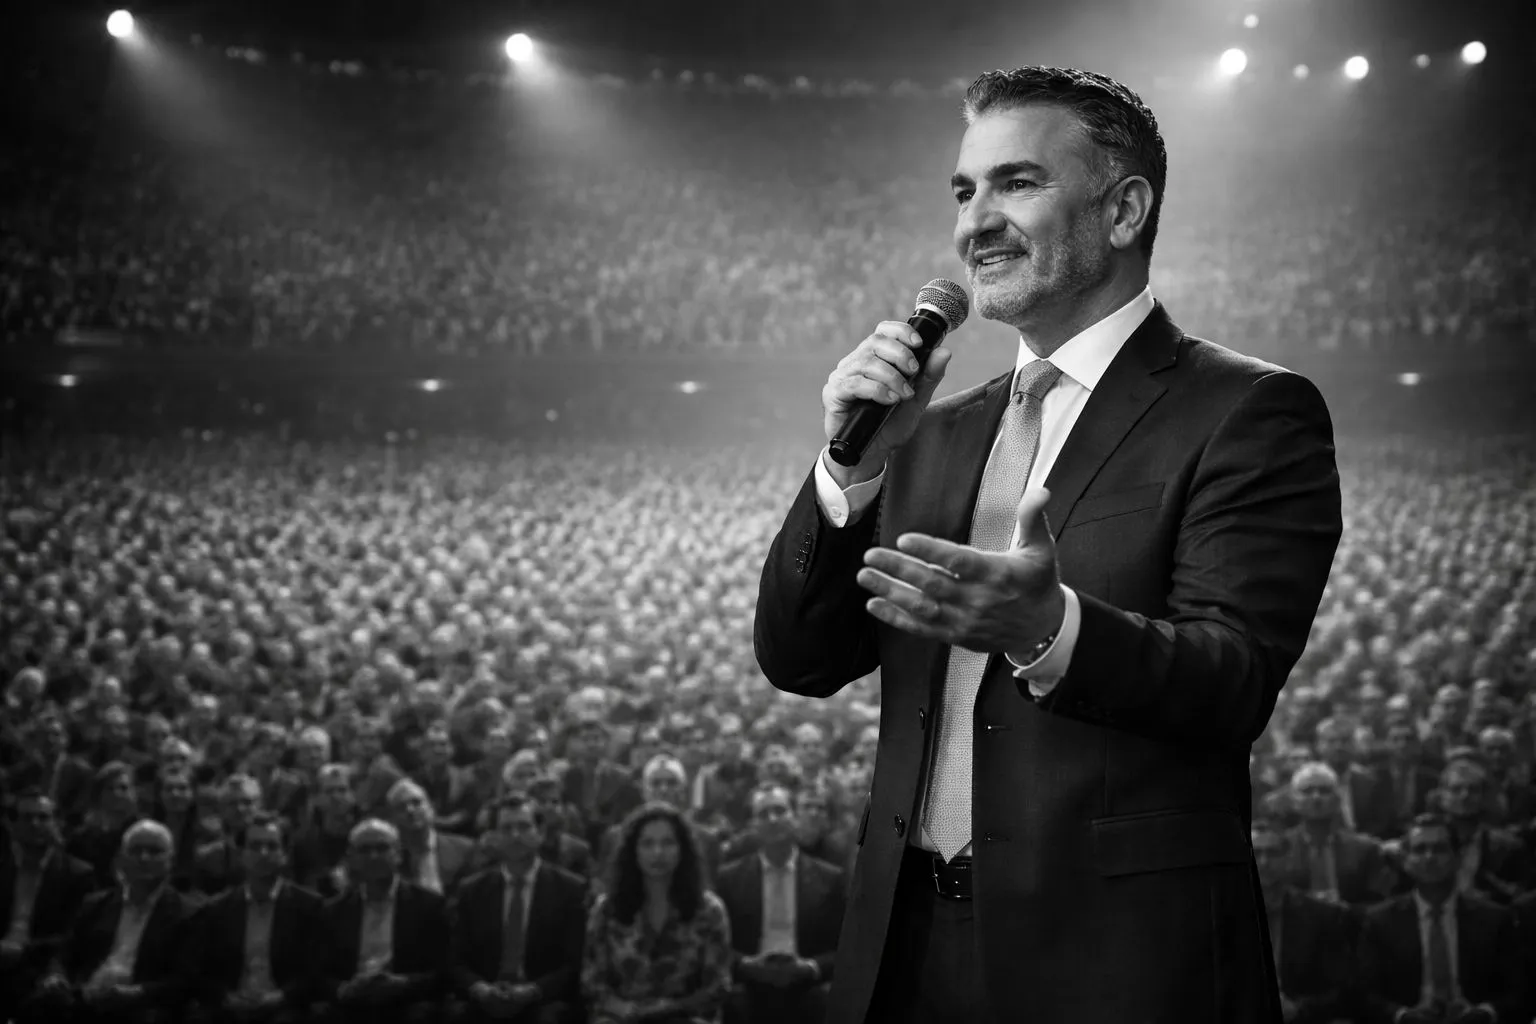
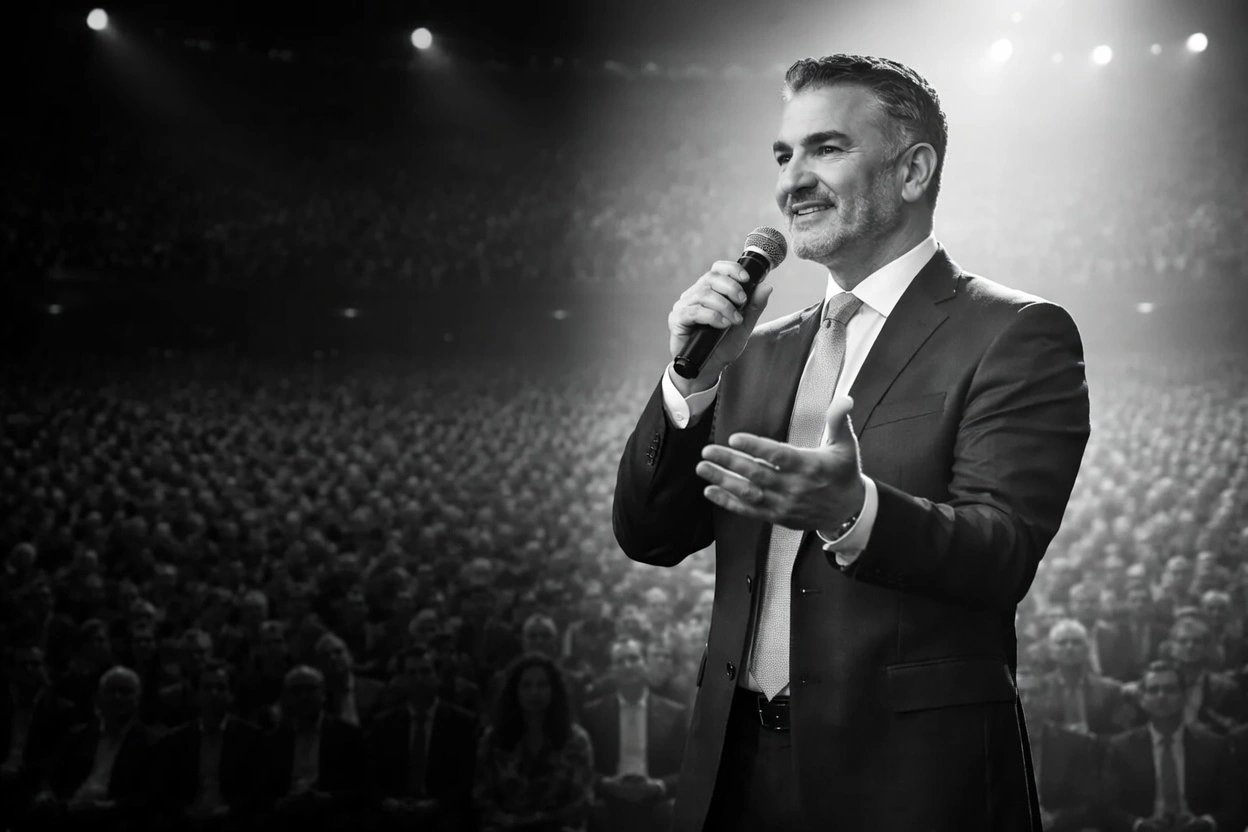
fix: hero section colors and faviicon

diff --git a/resources/views/partials/hero.blade.php b/resources/views/partials/hero.blade.php
@@ -4,12 +4,12 @@
     <img 
         src="{{ asset('images/hero-background.webp') }}" 
         class="absolute inset-0 h-full w-full object-cover grayscale">
-    <div class="absolute inset-0 bg-black/90"></div>
+    <div class="absolute inset-0 bg-black/50"></div>
     </div>
     {{-- Subtle gold radial glow --}}
     <div class="absolute inset-0 bg-[radial-gradient(ellipse_at_50%_50%,_rgba(201,168,76,0.05)_0%,_transparent_70%)]"></div>
 
-    <div class="relative z-10 mx-auto flex w-full max-w-7xl flex-col items-center gap-10 px-6 lg:flex-row lg:gap-16 lg:px-8">
+    <div class="relative z-10 mx-auto flex w-full max-w-7xl flex-col items-center gap-10 px-6 lg:ml-12 lg:flex-row lg:gap-16 lg:px-8">
         {{-- Left content --}}
         <div class="flex flex-1 flex-col items-center text-center lg:items-start lg:text-left">
             <h1 class="font-serif text-6xl font-bold uppercase leading-[0.95] tracking-wide text-primary sm:text-7xl md:text-8xl lg:text-9xl">
@@ -19,7 +19,7 @@
             <div class="my-6 h-px w-64 bg-gradient-to-r from-primary/80 via-primary/40 to-transparent lg:w-80"></div>
 
             <p class="text-sm font-medium uppercase tracking-[0.25em] text-foreground/60 sm:text-base">
-                Motivational Speaker | Author | Mindset Strategist
+                Motivational Speaker | Author | Mindset Expert
             </p>
 
             <h2 class="mt-10 font-serif text-3xl font-bold leading-tight text-foreground sm:text-4xl lg:text-5xl">
@@ -47,20 +47,8 @@
             </div>
         </div>
 
-        {{-- Right - Circle portrait --}}
-        <div class="relative flex flex-1 items-center justify-center lg:justify-end">
-            {{-- Subtle glow --}}
-            <div class="absolute h-56 w-56 rounded-full bg-primary/[0.08] blur-3xl sm:h-72 sm:w-72 md:h-80 md:w-80 lg:h-96 lg:w-96"></div>
-
-            {{-- Gold gradient ring --}}
-            <div class="relative h-48 w-48 rounded-full p-[3px] sm:h-64 sm:w-64 md:h-72 md:w-72 lg:h-96 lg:w-96"
-                style="background: linear-gradient(135deg, rgba(201,168,76,0.6) 0%, rgba(201,168,76,0.15) 40%, rgba(201,168,76,0.05) 60%, rgba(201,168,76,0.4) 100%);">
-                <div class="h-full w-full overflow-hidden rounded-full bg-charcoal">
-                    <img src="{{ asset('images/hero-marc2.png') }}" alt="Marc Najjar" class="h-full w-full object-cover object-top grayscale">
-                </div>
-            </div>
-        </div>
     </div>
+
 
     {{-- Video Lightbox --}}
     <div x-show="videoOpen"
@@ -93,5 +81,4 @@
                 </iframe>
             </template>
         </div>
-    </div>
 </section>

diff --git a/resources/views/layouts/app.blade.php b/resources/views/layouts/app.blade.php
@@ -4,13 +4,13 @@
     <meta charset="UTF-8">
     <meta name="viewport" content="width=device-width, initial-scale=1.0">
     <meta name="theme-color" content="#0a0a0a">
-    <title>@yield('title', 'Marc Najjar | Mind Power 24H')</title>
+    <title>@yield('title', 'Marc Najjar |Unlock the Power Within You.')</title>
     <meta name="description" content="@yield('description', 'Transform your mindset, transform your life. Business strategist, life coach, and bestselling author Marc Najjar empowers you to ignite your inner fire.')">
 
     {{-- Favicons --}}
-    <link rel="icon" href="{{ asset('icon-light-32x32.png') }}" media="(prefers-color-scheme: light)">
-    <link rel="icon" href="{{ asset('icon-dark-32x32.png') }}" media="(prefers-color-scheme: dark)">
-    <link rel="icon" href="{{ asset('icon.svg') }}" type="image/svg+xml">
+   {{-- Favicons --}}
+    <link rel="icon" type="image/png" sizes="32x32" href="{{ asset('icon-32x32.png') }}">
+    <link rel="icon" type="image/png" sizes="16x16" href="{{ asset('icon-16x16.png') }}">
     <link rel="apple-touch-icon" href="{{ asset('apple-icon.png') }}">
 
     {{-- Fonts --}}
